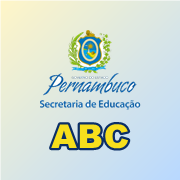
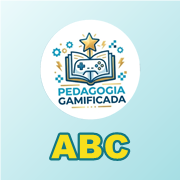
Visual flat turquesa e amarelo e marca Pedagogia Gamificada
Barra superior turquesa com o logo da Pedagogia Gamificada, fundo claro, cartoes brancos com sombra leve, botoes chapados amarelos, cartoes dos jogos em grade 2x2 no celular. Cores novas tambem nos graficos, PDF, e-mail, icones e manifest. No Tiro Certo os numeros da escala ficam por cima do missil. Versao do jogo v24.

diff --git a/style.css b/style.css
@@ -973,3 +973,133 @@ button { font-family: 'Fredoka', 'Nunito', sans-serif; cursor: pointer; border: 
   .mat-arena { height: 42vh; }
   .mat-respostas { grid-template-columns: repeat(2, 1fr); gap: 10px; }
 }
+
+/* =====================================================================
+   Visual "flat" de aplicativo (Pedagogia Gamificada): barra superior turquesa,
+   fundo claro, cartões brancos com sombra leve e detalhes em amarelo.
+   Este bloco vem por último e redefine as cores e os componentes de cima.
+   ===================================================================== */
+:root {
+  --primaria: #1fa2b0;
+  --primaria-escura: #137784;
+  --amarelo: #f9c62b;
+  --azul: #1fa2b0;
+  --azul-claro: #5fc9d3;
+  --texto: #22364a;
+  --cinza-texto: #5b6b7b;
+  --fundo: #eef4f6;
+  --sombra: 0 2px 10px rgba(19, 60, 80, 0.10);
+}
+
+body { background: var(--fundo); }
+.moldura { display: none; }
+
+/* barra superior turquesa de ponta a ponta */
+.app { padding-top: 0; }
+.topo {
+  margin: 0 calc(-1 * clamp(14px, 4vw, 40px)) 18px;
+  padding: max(10px, env(safe-area-inset-top)) 16px 10px;
+  background: var(--primaria);
+  box-shadow: 0 2px 8px rgba(19, 60, 80, 0.18);
+}
+.logo { height: clamp(64px, 10vw, 84px); }
+.btn-icone { top: 50%; right: 16px; transform: translateY(-50%); box-shadow: none; }
+
+/* títulos sem contorno 3D */
+.titulo { font-size: clamp(30px, 6.5vw, 54px); margin: 4px 0 8px; }
+.titulo-menor { font-size: clamp(26px, 5.5vw, 44px); }
+.titulo span { -webkit-text-stroke: 0; text-shadow: none; }
+.cor-amarelo { color: var(--primaria-escura); }
+.cor-azul { color: var(--primaria); }
+.cor-vermelho { color: var(--primaria); }
+.subtitulo { color: var(--primaria-escura); }
+.slogan { color: var(--texto); background: var(--amarelo); border-radius: 8px; box-shadow: none; }
+
+/* botões chapados */
+.btn-grande {
+  color: var(--texto);
+  background: var(--amarelo);
+  border-radius: 12px;
+  box-shadow: 0 3px 0 #d9a514;
+}
+.btn-grande:hover { transform: none; filter: brightness(1.04); }
+.btn-grande:active { transform: translateY(2px); box-shadow: 0 1px 0 #d9a514; }
+.btn-sec {
+  color: var(--primaria-escura);
+  background: var(--branco);
+  border: 2px solid var(--primaria);
+  border-radius: 12px;
+  box-shadow: none;
+}
+
+/* cartões brancos */
+.cartao { background: var(--branco); border-radius: 16px; box-shadow: var(--sombra); backdrop-filter: none; }
+.balao { border: 0; border-left: 6px solid var(--primaria); border-radius: 14px; box-shadow: var(--sombra); }
+.balao b { color: var(--primaria-escura); }
+.balao-esq::before { border-right-color: var(--branco); }
+.balao-cima::before { border-bottom-color: var(--branco); }
+.balao.certo { border-left-color: var(--verde); }
+.balao.errado { border-left-color: var(--vermelho); }
+.balao-cima.errado::before { border-bottom-color: var(--branco); }
+.balao-rotulo { color: var(--texto); border-radius: 6px; }
+
+/* cartões dos jogos na tela inicial: branco, faixa colorida e ícone em círculo */
+.jogo-card {
+  color: var(--texto);
+  background: var(--branco);
+  border-top: 6px solid var(--c);
+  border-radius: 16px;
+  box-shadow: var(--sombra);
+}
+.jogo-card:hover { transform: translateY(-2px); }
+.jogo-card:active { transform: translateY(1px); box-shadow: none; }
+.jogo-card-icone {
+  display: flex; align-items: center; justify-content: center;
+  width: 64px; height: 64px; margin-bottom: 4px;
+  font-size: 34px;
+  background: color-mix(in srgb, var(--c) 16%, white);
+  border-radius: 50%;
+}
+.jogo-card-nome { color: var(--texto); }
+.jogo-card-texto { color: var(--cinza-texto); opacity: 1; font-weight: 700; }
+
+/* missões */
+.missao { border-bottom: 0; border-top: 6px solid var(--c); border-radius: 16px; box-shadow: var(--sombra); }
+.missao:hover { transform: translateY(-2px); }
+.missao-todas { background: linear-gradient(160deg, #fffaf0, #fff1c2); }
+
+/* barra do jogo turquesa */
+.barra { padding: 8px 10px; background: var(--primaria); border-radius: 14px; }
+.barra-titulo, .chuva-placar { color: var(--branco); }
+.barra .btn-sec { border-color: var(--branco); }
+.chuva-combo { color: var(--amarelo); }
+.progresso i { border-color: var(--branco); }
+
+/* respostas */
+.opcao { border-radius: 14px; box-shadow: 0 3px 0 rgba(0, 0, 0, 0.18); }
+.opcao.certa { box-shadow: 0 3px 0 #1d6b3d; }
+.mat-resposta, #tiro-opcoes .mat-resposta { background: var(--primaria); border-radius: 14px; box-shadow: 0 3px 0 var(--primaria-escura); }
+.mat-resposta:active { transform: translateY(2px); box-shadow: none; }
+.mat-resposta.certa, #tiro-opcoes .mat-resposta.certa { background: var(--verde); box-shadow: 0 3px 0 #1d6b3d; }
+.mat-resposta.errada, #tiro-opcoes .mat-resposta.errada { background: var(--vermelho); box-shadow: 0 3px 0 #8e1b1b; }
+.chuva-modo, .chuva-cat { border-radius: 12px; border-color: #cfe3e7; }
+.chuva-modo.ativo, .chuva-cat.ativo { border-color: transparent; }
+
+/* campos, arenas e relatório */
+.campo input { border-color: #cfe3e7; border-radius: 12px; }
+.chuva-arena { border: 0; border-radius: 16px; box-shadow: var(--sombra); background: linear-gradient(180deg, #d6f1f4 0%, #f2fbfc 75%, #fff8dc 100%); }
+.tiro-arena { border: 0; border-radius: 16px; box-shadow: var(--sombra); }
+.gota { border-color: var(--primaria); border-radius: 12px; }
+.conta-caindo { border-color: var(--primaria); border-radius: 16px; }
+.grafico { border-color: #dbeef1; }
+.tabela-revisar th { background: var(--primaria); }
+.dificuldade { border-radius: 12px; }
+.credito { color: var(--cinza-texto); }
+.balao::before { display: none; }
+@media (max-width: 720px) {
+  .escolha-jogos { grid-template-columns: repeat(2, 1fr); gap: 12px; }
+  .jogo-card { padding: 12px 8px; }
+  .jogo-card-icone { width: 52px; height: 52px; font-size: 28px; }
+  .jogo-card-nome { font-size: 18px; }
+  .jogo-card-texto { font-size: 13px; }
+}

diff --git a/jogo.js b/jogo.js
@@ -266,7 +266,7 @@
 
   // missão especial com as palavras de todas as missões, misturadas
   const TODAS = {
-    id: 'todas', titulo: 'Todas as palavras', icone: '🌟', cor: '#1565c0', todas: true,
+    id: 'todas', titulo: 'Todas as palavras', icone: '🌟', cor: '#1fa2b0', todas: true,
     regra: 'Aqui aparecem as <b>80 palavras</b> de todas as missões, misturadas! Use todos os segredos que você aprendeu. Se cansar, toque em <b>Terminar e ver relatório</b> quando quiser.',
   };
 
@@ -447,7 +447,7 @@
   // Cada palavra fica de 2 a 5 segundos na tela: quanto mais rápido o aluno pega, mais rápido elas caem;
   // quando ele erra ou deixa passar, a chuva fica mais lenta.
   const CHUVA = { PALAVRAS: 30, VIDA_MAX: 5, VIDA_MIN: 2, RODAPE: 34 };
-  const CHUVA_TODAS = { id: 'todas', titulo: 'Todas as palavras', icone: '🌟', cor: '#1565c0' };
+  const CHUVA_TODAS = { id: 'todas', titulo: 'Todas as palavras', icone: '🌟', cor: '#1fa2b0' };
   let chuvaModo = 'certas', chuvaCat = 'todas';
   let chuva = null;   // a rodada em andamento
   const limitar = (v, min, max) => Math.min(max, Math.max(min, v));
@@ -1146,6 +1146,15 @@
       g.lineWidth = grande || medio ? 2.5 : 1.5;
       g.beginPath(); g.moveTo(dentro.x, dentro.y); g.lineTo(fora.x, fora.y); g.stroke();
     }
+    // míssil (aponta para onde voa) com fogo animado
+    if (tiro.missil) {
+      const pm = posicaoMissil(md, tiro.missil);
+      const ang = Math.atan2(md.canhao.y - pm.ini.y, md.canhao.x - pm.ini.x) + Math.PI / 2;
+      const quadro = Math.floor(tiro.t * 12) % 3;
+      sprite(g, SPRITES.missil, quadro * 16, 0, 16, 42, pm.x, pm.y, k * 0.85, ang, 8, 18);
+    }
+
+    // números da escala por cima do míssil, para o aluno sempre conseguir ler
     g.textAlign = 'center'; g.textBaseline = 'middle';
     for (let a = 0; a < 360; a += 15) {
       if (a % 30 !== 0 && a % 45 !== 0) continue;
@@ -1155,14 +1164,6 @@
       g.fillStyle = principal ? '#ffd23a' : a % 30 === 0 ? '#d9efff' : '#ffe08a';
       if (a === 0) { g.fillText('0°', md.canhao.x - 4 * k, md.canhao.y + 34 * k); continue; }
       g.fillText(`${a}°`, p.x, p.y);
-    }
-
-    // míssil (aponta para onde voa) com fogo animado
-    if (tiro.missil) {
-      const pm = posicaoMissil(md, tiro.missil);
-      const ang = Math.atan2(md.canhao.y - pm.ini.y, md.canhao.x - pm.ini.x) + Math.PI / 2;
-      const quadro = Math.floor(tiro.t * 12) % 3;
-      sprite(g, SPRITES.missil, quadro * 16, 0, 16, 42, pm.x, pm.y, k * 0.85, ang, 8, 18);
     }
 
     // canhão: carreta parada e cano girando para a mira
@@ -1227,7 +1228,7 @@
 
   // ---------- Gráficos do relatório ----------
   // Desenhados num canvas no próprio aparelho; a mesma imagem aparece na tela e no PDF.
-  const COR_OK = '#2e9e5b', COR_ERRO = '#e53935', COR_TEXTO = '#13294b', COR_GRADE = '#dce9f8', COR_LINHA = '#1565c0';
+  const COR_OK = '#2e9e5b', COR_ERRO = '#e53935', COR_TEXTO = '#13294b', COR_GRADE = '#dce9f8', COR_LINHA = '#1fa2b0';
   const fonteGrafico = (tam, peso = 700) => `${peso} ${tam}px Nunito, Arial, sans-serif`;
 
   function novoGrafico(w, h, titulo) {
@@ -1487,7 +1488,7 @@
     const { rel, estrelas, missao: mis, data } = ultimoRelatorio;
     const tx = textosRelatorio(mis);
     const doc = new lib.jsPDF({ unit: 'mm', format: 'a4' });
-    const AZUL = [21, 101, 192], TEXTO = [19, 41, 75], CINZA = [100, 116, 139];
+    const AZUL = [19, 119, 132], TEXTO = [34, 54, 74], CINZA = [100, 116, 139];
     const L = 18, LARG = 210 - 2 * L;
     let y = 16;
 
@@ -1500,7 +1501,7 @@
 
     // cabeçalho com o logo
     try {
-      const logo = await imagemComoDataURL('assets/logo-pe.png');
+      const logo = await imagemComoDataURL('assets/logo-pg.png');
       doc.addImage(logo.url, 'PNG', L, y - 2, 28, 28 * logo.h / logo.w, undefined, 'FAST');
     } catch (e) { /* sem logo */ }
     doc.setFont('helvetica', 'bold'); doc.setFontSize(20); doc.setTextColor(...AZUL);
@@ -1560,7 +1561,7 @@
       cabecalho();
       rel.comErro.forEach((r, i) => {
         if (y + 8 > 278) { doc.addPage(); y = 20; cabecalho(); }
-        if (i % 2 === 0) { doc.setFillColor(234, 243, 252); doc.rect(L, y - 5, LARG, 8, 'F'); }
+        if (i % 2 === 0) { doc.setFillColor(232, 246, 248); doc.rect(L, y - 5, LARG, 8, 'F'); }
         doc.setFont('helvetica', 'bold'); doc.setFontSize(11); doc.setTextColor(30, 120, 70);
         doc.text(paraPDF(r.certa.toUpperCase()), L + 3, y);
         doc.setFont('helvetica', 'normal'); doc.setTextColor(200, 50, 60);

diff --git a/index.html b/index.html
@@ -3,7 +3,7 @@
 <head>
   <meta charset="UTF-8">
   <meta name="viewport" content="width=device-width, initial-scale=1.0, viewport-fit=cover">
-  <meta name="theme-color" content="#1565c0">
+  <meta name="theme-color" content="#1fa2b0">
   <meta name="author" content="Marco Nunes">
   <meta name="description" content="Jogos Educacionais: o aluno joga, o professor analisa. Jogos educativos de ortografia para crianças, com o Plenix, o amigo robô.">
   <meta name="mobile-web-app-capable" content="yes">
@@ -16,7 +16,7 @@
   <link rel="preconnect" href="https://fonts.googleapis.com">
   <link rel="preconnect" href="https://fonts.gstatic.com" crossorigin>
   <link href="https://fonts.googleapis.com/css2?family=Fredoka:wght@500;600;700&family=Nunito:wght@600;700;800&display=swap" rel="stylesheet">
-  <link rel="stylesheet" href="style.css?v=23">
+  <link rel="stylesheet" href="style.css?v=24">
 </head>
 <body>
   <!-- moldura de lápis, livros e estrelas -->
@@ -24,7 +24,7 @@
 
   <main class="app">
     <header class="topo">
-      <img class="logo" src="assets/logo-pe.png" alt="Governo de Pernambuco - Secretaria de Educação">
+      <img class="logo" src="assets/logo-pg.png" alt="Pedagogia Gamificada">
       <button class="btn-icone" id="btn-som" type="button" aria-label="Som ligado">🔊</button>
     </header>
 
@@ -327,9 +327,9 @@
   </footer>
 
   <script src="vendor/jspdf.umd.min.js"></script>
-  <script src="plenix.js?v=23"></script>
-  <script src="dados.js?v=23"></script>
-  <script src="jogo.js?v=23"></script>
+  <script src="plenix.js?v=24"></script>
+  <script src="dados.js?v=24"></script>
+  <script src="jogo.js?v=24"></script>
   <script>
     // Instala o service worker (funcionar offline / virar app)
     if ('serviceWorker' in navigator) {

diff --git a/service-worker.js b/service-worker.js
@@ -1,6 +1,6 @@
 // Guarda os arquivos do jogo para funcionar offline.
 // Ao mudar qualquer arquivo do jogo, aumente a VERSAO para os aparelhos baixarem a nova.
-const VERSAO = 'ortografia-pleno-v23';
+const VERSAO = 'ortografia-pleno-v24';
 
 const FIGURAS = ['c-cedilha', 'r-rr', 'm-n', 'g-j', 'x-ch', 'acentos']
   .flatMap((id) => Array.from({ length: 10 }, (_, i) => `./assets/figuras/${id}-${i}.jpg`));
@@ -8,10 +8,10 @@ const FIGURAS = ['c-cedilha', 'r-rr', 'm-n', 'g-j', 'x-ch', 'acentos']
 const ARQUIVOS = [
   './',
   './index.html',
-  './style.css?v=23',
-  './jogo.js?v=23',
-  './dados.js?v=23',
-  './plenix.js?v=23',
+  './style.css?v=24',
+  './jogo.js?v=24',
+  './dados.js?v=24',
+  './plenix.js?v=24',
   './assets/plenix/plenix_spritesheet_1x.png',
   './assets/tiro/canhao-cano.png',
   './assets/tiro/canhao-carreta.png',
@@ -21,7 +21,7 @@ const ARQUIVOS = [
   './assets/tiro/municao.png',
   './vendor/jspdf.umd.min.js',
   './manifest.json',
-  './assets/logo-pe.png',
+  './assets/logo-pg.png',
   './icons/icon-192.png',
   './icons/icon-512.png',
   './icons/icon-maskable-512.png',

diff --git a/privacidade.html b/privacidade.html
@@ -3,7 +3,7 @@
 <head>
   <meta charset="UTF-8">
   <meta name="viewport" content="width=device-width, initial-scale=1.0">
-  <meta name="theme-color" content="#1565c0">
+  <meta name="theme-color" content="#1fa2b0">
   <title>Política de Privacidade — Jogos Educacionais</title>
   <link rel="icon" href="icons/icon-192.png">
   <style>
@@ -13,12 +13,12 @@
       font-family: system-ui, sans-serif;
       line-height: 1.6;
       color: #13294b;
-      background: linear-gradient(120deg, #fff6c7, #d6ecff 45%, #b8d8ff);
+      background: #eef4f6;
       min-height: 100vh;
     }
     main { max-width: 720px; margin: 0 auto; background: #fff; border-radius: 20px; padding: 24px 22px; }
-    h1 { color: #1565c0; line-height: 1.2; }
-    h2 { color: #1565c0; margin-top: 26px; font-size: 1.15rem; }
+    h1 { color: #137784; line-height: 1.2; }
+    h2 { color: #137784; margin-top: 26px; font-size: 1.15rem; }
     a { color: #0095d9; }
     .data { color: #64748b; }
   </style>

diff --git a/README.md b/README.md
@@ -87,7 +87,7 @@ Abra o `index.html` no navegador.
 - `assets/plenix/*.gif` — as mesmas animações em GIF (fundo branco), para usar em outros materiais
 - `ferramentas/plenix.ps1` — recorta o Plenix comparando as imagens de fundo azul e roxo (em `assets/plenix-original/`)
 - `ferramentas/plenix-farda.py` — veste o Plenix com a farda da Rede Estadual (camisa branca, gola azul, faixa amarela, vermelha e azul) a partir de `assets/plenix-original/plenix_spritesheet_original.png`
-- `assets/logo-pleno.png` — logo do colégio
+- `assets/logo-pg.png` — logo da Pedagogia Gamificada (marca do app; recorte redondo de `assets/logo-pg-original.png`)
 - `ferramentas/logo.ps1` — recorta o logo e deixa o fundo transparente
 
 Para criar mais perguntas, basta adicionar itens no `dados.js`.
